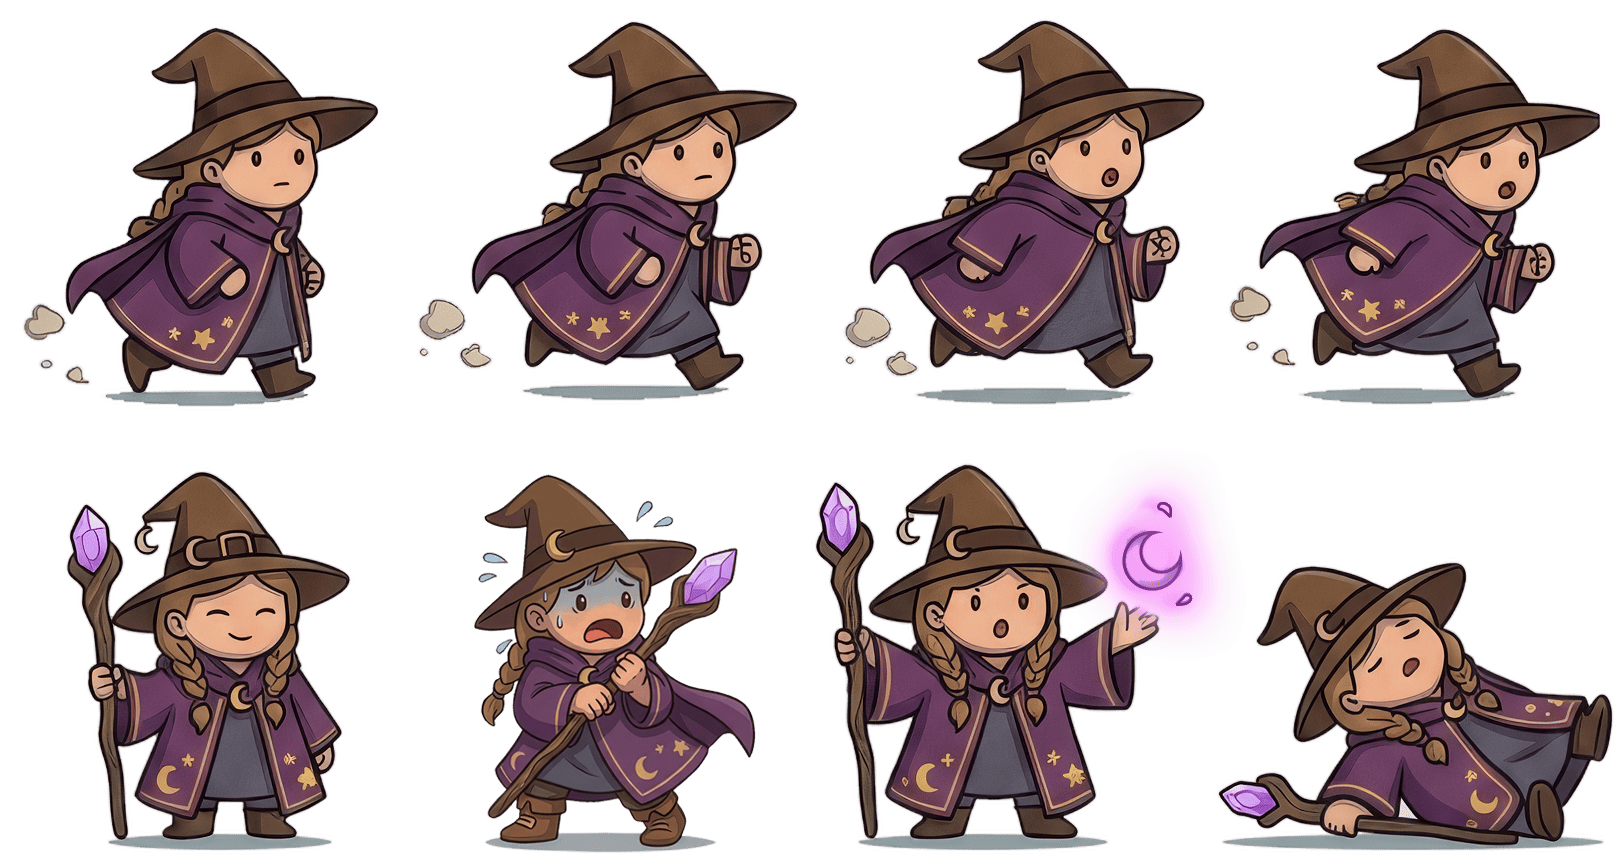
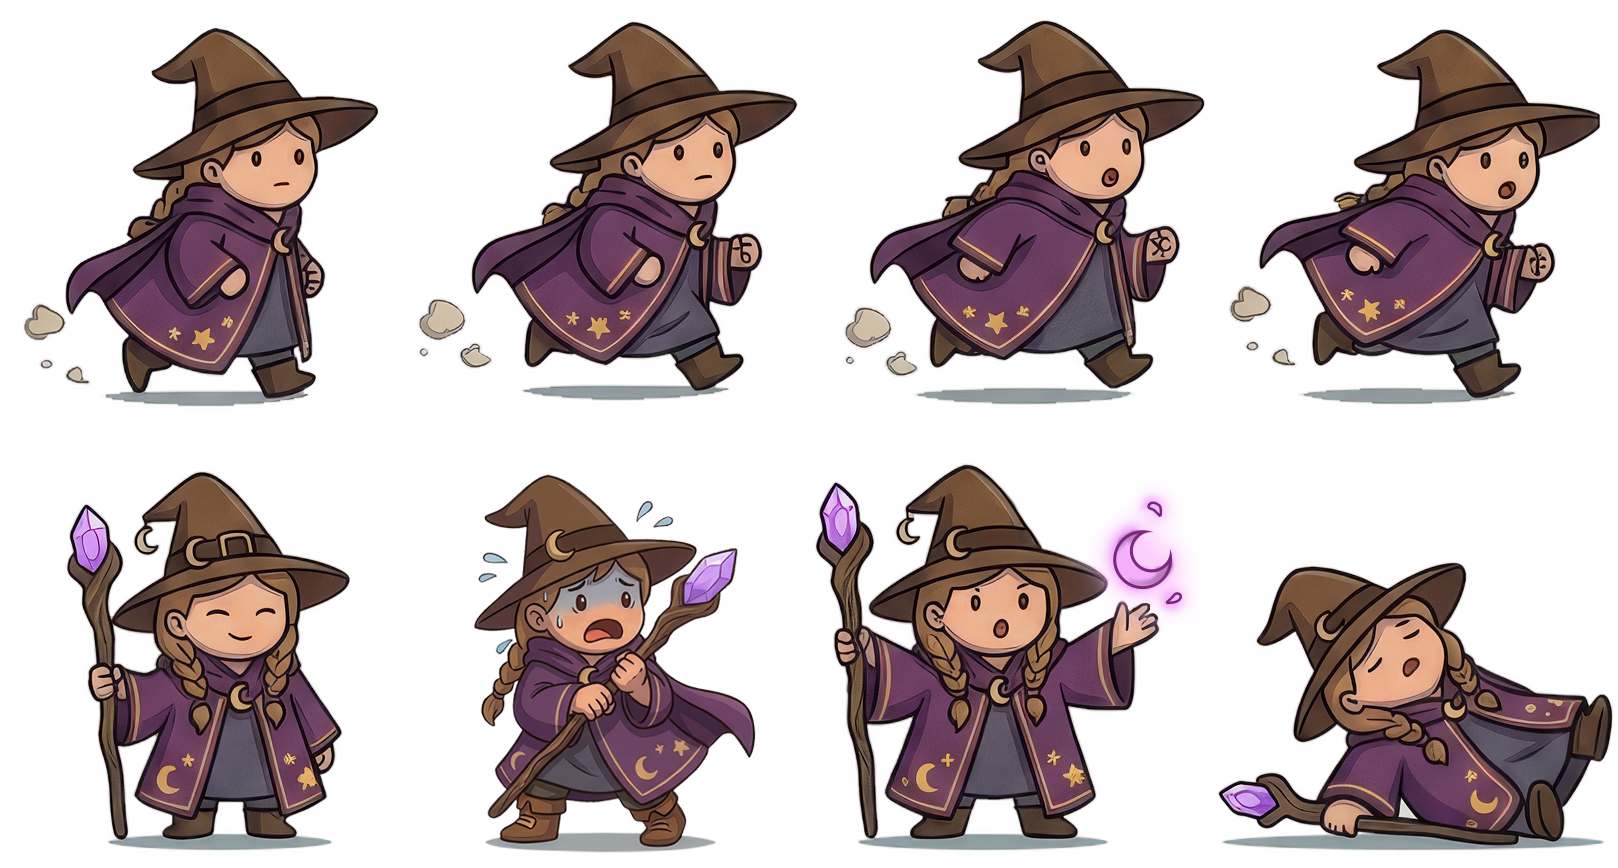
v1.1.8 fix black backgrounds on macOS: opaque bg surfaces, safe display scaling, case-sensitive paths, sprite reconversion on display change

Changed region(s): [[0.6799, 0.5599, 0.7726, 0.7465]]

diff --git a/math-wizard.py b/math-wizard.py
@@ -412,9 +412,9 @@ class Game :
         self .char_w ,self .char_h =self .char_img .get_size ()
 
     def load_resources (self ):
-        self .bg =safe_load_image (resource_path ("graphics/backgrounds/village.png"),(SCREEN_WIDTH ,SCREEN_HEIGHT ))
-        self .bg_menu =safe_load_image (resource_path ("graphics/MISC/background_menu.png"),(SCREEN_WIDTH ,SCREEN_HEIGHT ))
-        self .bg_options =safe_load_image (resource_path ("graphics/MISC/background_options.png"),(SCREEN_WIDTH ,SCREEN_HEIGHT ))
+        self .bg =safe_load_image (resource_path ("graphics/backgrounds/village.png"),(SCREEN_WIDTH ,SCREEN_HEIGHT ),convert_alpha =False )
+        self .bg_menu =safe_load_image (resource_path ("graphics/misc/background_menu.png"),(SCREEN_WIDTH ,SCREEN_HEIGHT ),convert_alpha =False )
+        self .bg_options =safe_load_image (resource_path ("graphics/misc/background_options.png"),(SCREEN_WIDTH ,SCREEN_HEIGHT ),convert_alpha =False )
 
         self .backgrounds ={"village":self .bg }
         self ._bg_files ={}
@@ -503,7 +503,7 @@ class Game :
         if surf is None :
             path =self ._bg_files .get (name )
             if path :
-                surf =safe_load_image (path ,(SCREEN_WIDTH ,SCREEN_HEIGHT ))
+                surf =safe_load_image (path ,(SCREEN_WIDTH ,SCREEN_HEIGHT ),convert_alpha =False )
                 self .backgrounds [name ]=surf 
         return surf 
 
@@ -583,6 +583,8 @@ class Game :
             self .display =pygame .display .set_mode ((SCREEN_WIDTH ,SCREEN_HEIGHT ),pygame .FULLSCREEN )
         except pygame .error :
             pass
+        if hasattr (self ,"char_data"):
+            self ._reconvert_alpha_surfaces ()
 
     def _apply_display_mode (self ):
         if self .fullscreen :
@@ -592,10 +594,53 @@ class Game :
         else :
             size =getattr (self ,'_last_windowed',None )or self .compute_windowed_size ()
             self .display =pygame .display .set_mode (size ,pygame .RESIZABLE )
+        self ._reconvert_alpha_surfaces ()
 
     def _resize_display (self ,size ):
         self ._last_windowed =size 
         self .display =pygame .display .set_mode (size ,pygame .RESIZABLE )
+        self ._reconvert_alpha_surfaces ()
+
+    def _reconvert_alpha_surfaces (self ):
+        try :
+            for key ,data in self .char_data .items ():
+                for name ,val in data .items ():
+                    if isinstance (val ,list ):
+                        for i ,surf in enumerate (val ):
+                            val [i ]=surf .convert_alpha ()
+                    else :
+                        data [name ]=val .convert_alpha ()
+            for idx ,monster in self .monsters .items ():
+                frames =monster ["frames"]
+                for i ,surf in enumerate (frames ):
+                    frames [i ]=surf .convert_alpha ()
+                monster ["hit"]=monster ["hit"].convert_alpha ()
+                if frames is self .monster_frames :
+                    self .monster_img =frames [0 ]
+                    self .monster_hit_img =monster ["hit"]
+            if self .boss_data :
+                for key in ("walk","hit","defeated"):
+                    val =self .boss_data [key ]
+                    if isinstance (val ,list ):
+                        for i ,surf in enumerate (val ):
+                            val [i ]=surf .convert_alpha ()
+                    else :
+                        self .boss_data [key ]=val .convert_alpha ()
+            self .char_img =self .char_data .get (self .config_gender ,self .char_data ["F"])["idle"][0 ]
+            if self .heart_red :
+                self .heart_red =self .heart_red .convert_alpha ()
+            if self .heart_grey :
+                self .heart_grey =self .heart_grey .convert_alpha ()
+            if self .gear_img :
+                self .gear_img =self .gear_img .convert_alpha ()
+            if self .git_icon :
+                self .git_icon =self .git_icon .convert_alpha ()
+            if self .kofi_icon :
+                self .kofi_icon =self .kofi_icon .convert_alpha ()
+            if self .logo :
+                self .logo =self .logo .convert_alpha ()
+        except (pygame .error ,AttributeError )as e :
+            print (f"Warning: surface reconvert failed: {e }")
 
     def _fit_rect (self ):
         dw ,dh =self .display .get_size ()
@@ -643,7 +688,7 @@ class Game :
         self .story_idx =0 
         self .num_story_levels =sum (1 for e in self .story_entries if e .get ("tipo")=="livello")
 
-        self .version ="1.1.7"
+        self .version ="1.1.8"
 
         self .profiles =[]
         self .current_profile =""
@@ -1084,7 +1129,7 @@ class Game :
             self .story_object_img =None 
             self .story_object_alpha =0 
             if obj_file :
-                obj_img =safe_load_image (resource_path (os .path .join ("graphics","MISC",obj_file )))
+                obj_img =safe_load_image (resource_path (os .path .join ("graphics","misc",obj_file )))
                 ow ,oh =obj_img .get_size ()
                 if oh >900 :
                     s =900 /oh 
@@ -2561,14 +2606,11 @@ class Game :
             pygame .display .flip ()
             return 
         dw ,dh ,tw ,th ,ox ,oy =self ._fit_rect ()
-        if tw ==dw and th ==dh :
-            pygame .transform .scale (self .screen ,(tw ,th ),self .display )
-        else :
-            if self ._scaled_cache is None or self ._scaled_cache .get_size ()!=(tw ,th ):
-                self ._scaled_cache =pygame .Surface ((tw ,th ))
-            pygame .transform .scale (self .screen ,(tw ,th ),self ._scaled_cache )
-            self .display .fill (BLACK )
-            self .display .blit (self ._scaled_cache ,(ox ,oy ))
+        if self ._scaled_cache is None or self ._scaled_cache .get_size ()!=(tw ,th ):
+            self ._scaled_cache =pygame .Surface ((tw ,th ))
+        pygame .transform .scale (self .screen ,(tw ,th ),self ._scaled_cache )
+        self .display .fill (BLACK )
+        self .display .blit (self ._scaled_cache ,(ox ,oy ))
         pygame .display .flip ()
 
     def _render_cached (self ,font ,text ,color ):
